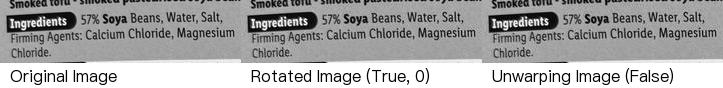
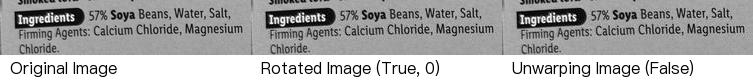
update postprocess_utils.py -check edit distance

diff --git a/postprocess_utils.py b/postprocess_utils.py
@@ -7,6 +7,8 @@ extra_words = ["flavouring", "sucralose", "colours", "sorbate", "sugar", "carame
 # add extra words to spell checker dictionary
 for word in extra_words:
     spell.word_frequency.add(word)
+default_distance = spell.distance
+print(f"default_distance: {default_distance}")
 
 def postprocess_text(input_folder_path, output_folder_path):
     """Postprocess multiple cleaned OCR text files while preserving line structure."""
@@ -53,3 +55,6 @@ def postprocess_text(input_folder_path, output_folder_path):
         print(f"Saved corrected file to: {out_path}")
 
     return output_folder_path
+#double check edit distance
+# if __name__ == "__main__":
+#     print(f"default_distance: {default_distance}")
